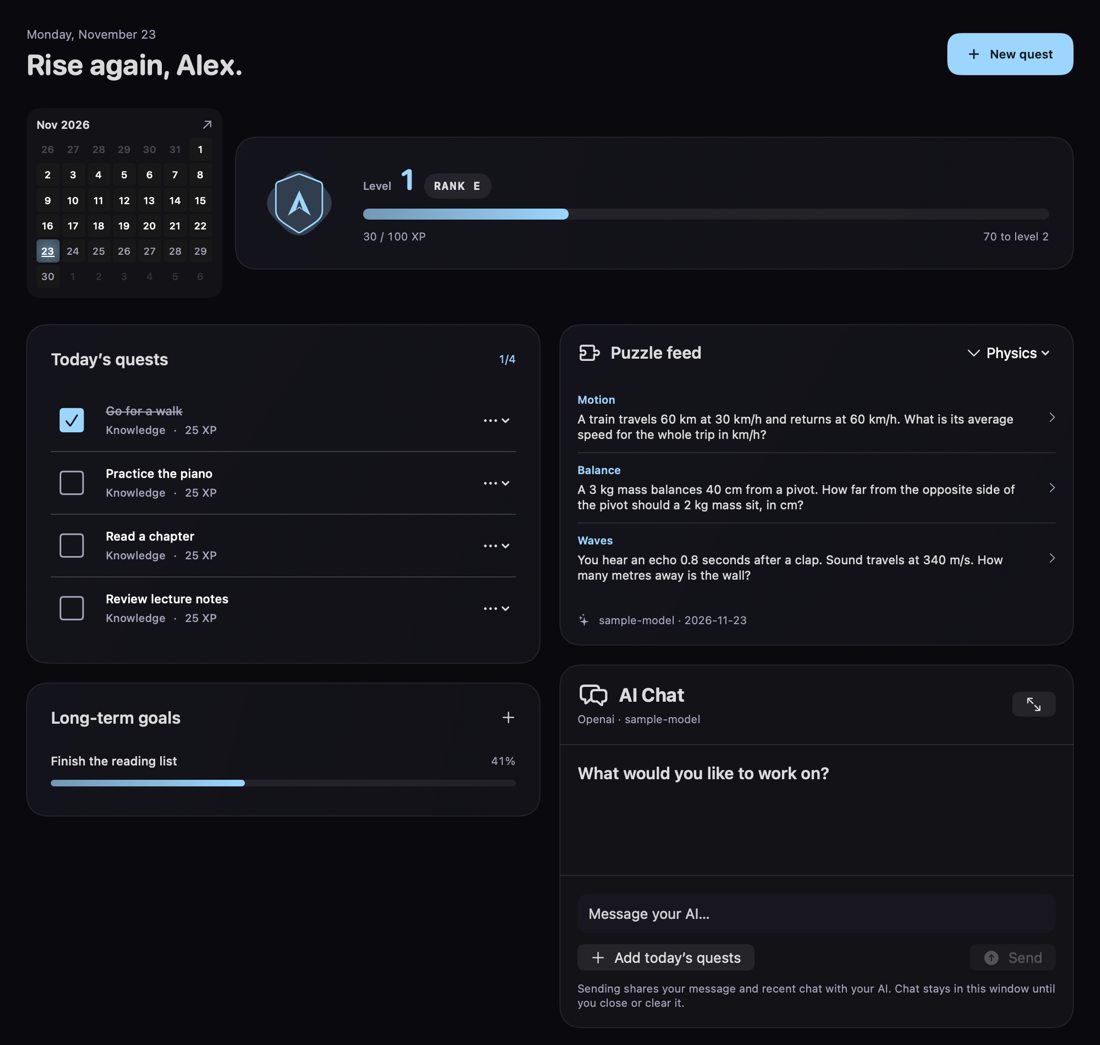
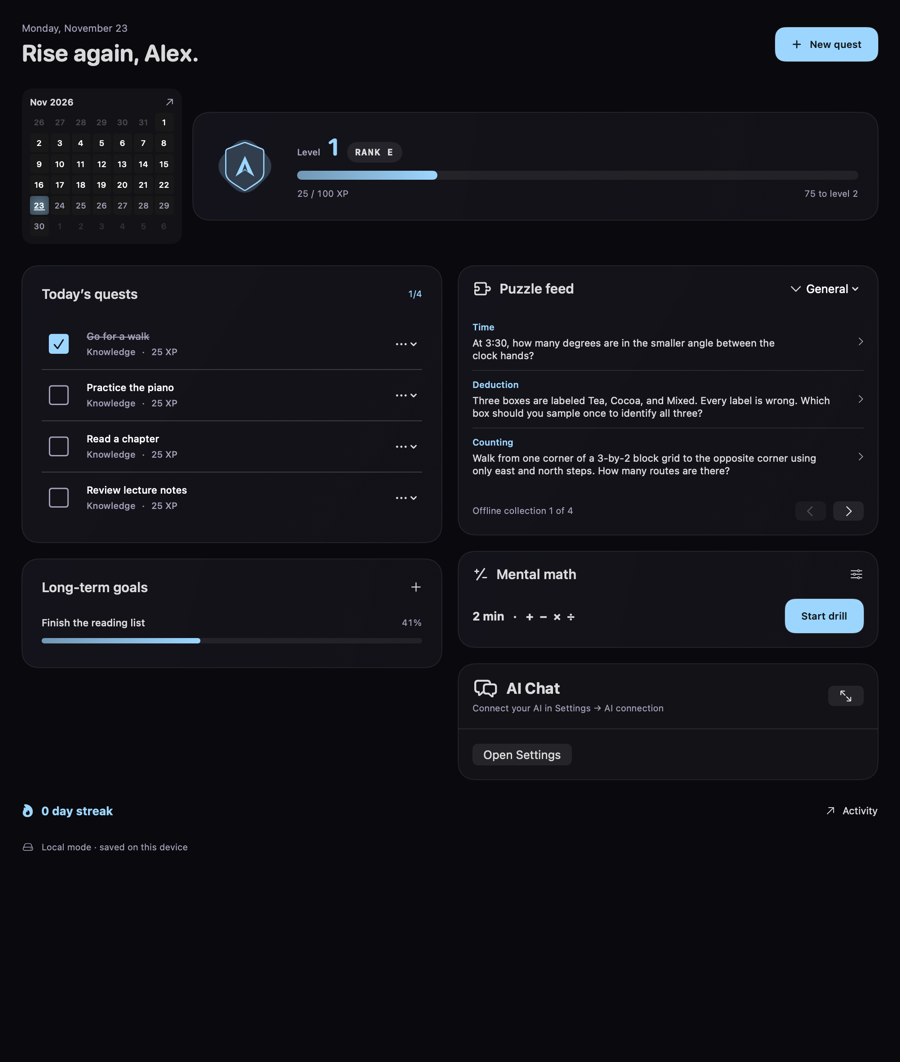
Verify release version alignment and document mental math validation

diff --git a/Docs/VALIDATION.md b/Docs/VALIDATION.md
@@ -1,5 +1,13 @@
 # Validation results
 
+## Mental math and release readiness, 23 November 2026
+
+Version 1.7 (build 9) passed the universal Mac Release and iPhone Simulator builds from a clean Git checkout. Regenerating the Xcode project produced no diff. All 41 Swift core tests and 21 gateway tests passed. The five new tests cover direct and inverse operations, operand bounds, invalid settings, partial answers, zero, replay, and the exact scoring deadline.
+
+A native Mac UI harness rendered both dashboard widths using synthetic data and opened the production drill view. The answer field took keyboard focus. Typing the first digit of 13 kept the problem in place. Completing the number cleared the field. A second answer advanced immediately using the same field. When five seconds elapsed, the device metadata contained the selected settings and a two-point score. iPhone Simulator verification covered compilation. The narrow layout render used the Mac SwiftUI host.
+
+The release-tag CI command passed locally for `v1.7` and rejected a deliberately mismatched tag. The app and embedded widget versions matched. Strict signature verification passed for the packaged app and a fresh extraction of its ZIP. The Mac binary includes arm64 and x86_64. Publication, a hosted Actions run and public notarization remain pending.
+
 ## Puzzle dashboard and release handoff, 23 November 2026
 
 Version 1.6, build 8, passed a fresh-checkout build for universal macOS Release and iPhone Simulator. Project regeneration produced no diff. All 36 Swift core tests and 21 gateway tests passed. The packaged app, embedded widget extension, and a fresh extraction of the Mac ZIP passed strict signature verification.

diff --git a/HANDOFF.md b/HANDOFF.md
@@ -42,7 +42,7 @@ The drill runs offline. `AppStore` saves its settings and last completed score i
 
 ## GitHub and distribution
 
-- The workflow in `.github/workflows/test.yml` runs on pushes and pull requests. It checks project regeneration, runs the Swift and Node suites, compiles the Mac app with its widgets, verifies the bundle signature, and compiles the iPhone simulator app. It uses read-only repository permissions.
+- The workflow in `.github/workflows/test.yml` runs on pushes and pull requests. It checks project regeneration, runs the Swift and Node suites, compiles the Mac app with its widgets, verifies the bundle signature, checks app and widget version agreement (including the version on a release tag), and compiles the iPhone simulator app. It uses read-only repository permissions.
 - Local copies of the runnable app and the two ZIP files live in the ignored `Downloads/` directory of the delivery repository. A fresh checkout builds its own app. Use a tagged source archive for source distribution.
 - The local Mac package is ad hoc signed. For a public Mac download, sign the app and extension with the project's Developer ID identity, notarize and staple the app, then verify the extracted release ZIP on a separate Mac. Attach that ZIP to the GitHub Release for the matching source tag.
 - The repository owner still needs to choose the GitHub destination and visibility. If releasing under an open-source license, choose the intended license before inviting reuse. The repository currently contains no license grant.

diff --git a/README.md b/README.md
@@ -6,7 +6,7 @@ A native, standalone SwiftUI app for macOS and iPhone. Quests, routines, real go
 
 **Open the local delivery.** The delivery folder includes `Downloads/ASCEND.app` and `Downloads/ASCEND-Mac.zip`. For a Git checkout, run `./Scripts/build-local.sh`. See the [project handoff](HANDOFF.md) for release packaging and signing.
 
-![Home with a compact calendar, quests, goals, physics puzzles and the chat composer, shown with sample data](Docs/Images/dashboard.png)
+![Home with a compact calendar, quests, goals, offline puzzles, mental math and AI chat, shown with sample data](Docs/Images/dashboard.png)
 
 ## What is implemented
 
